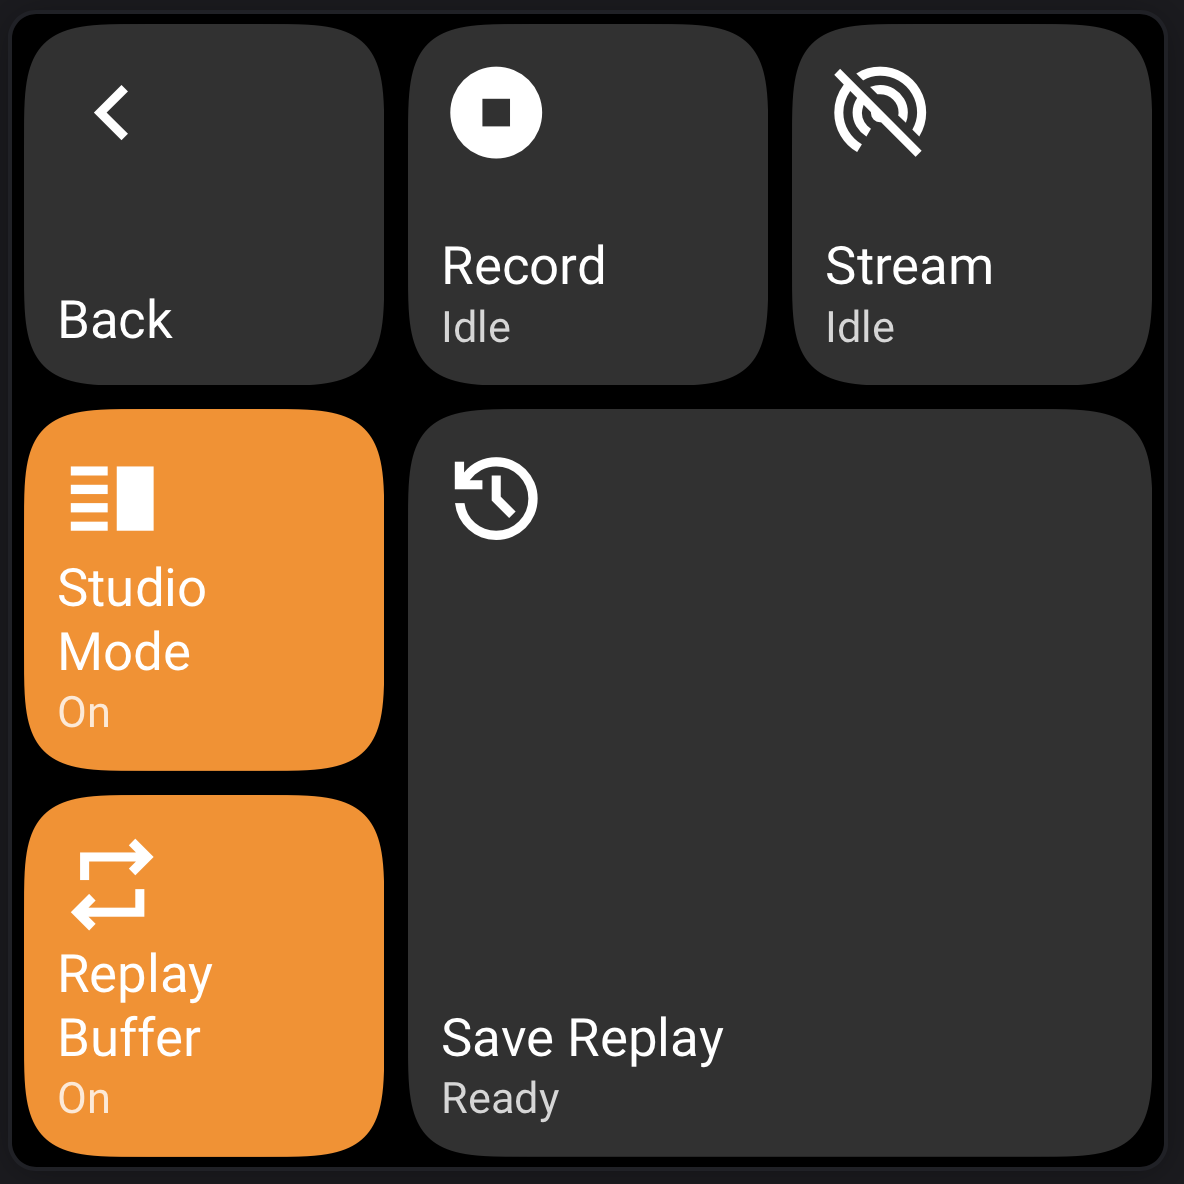
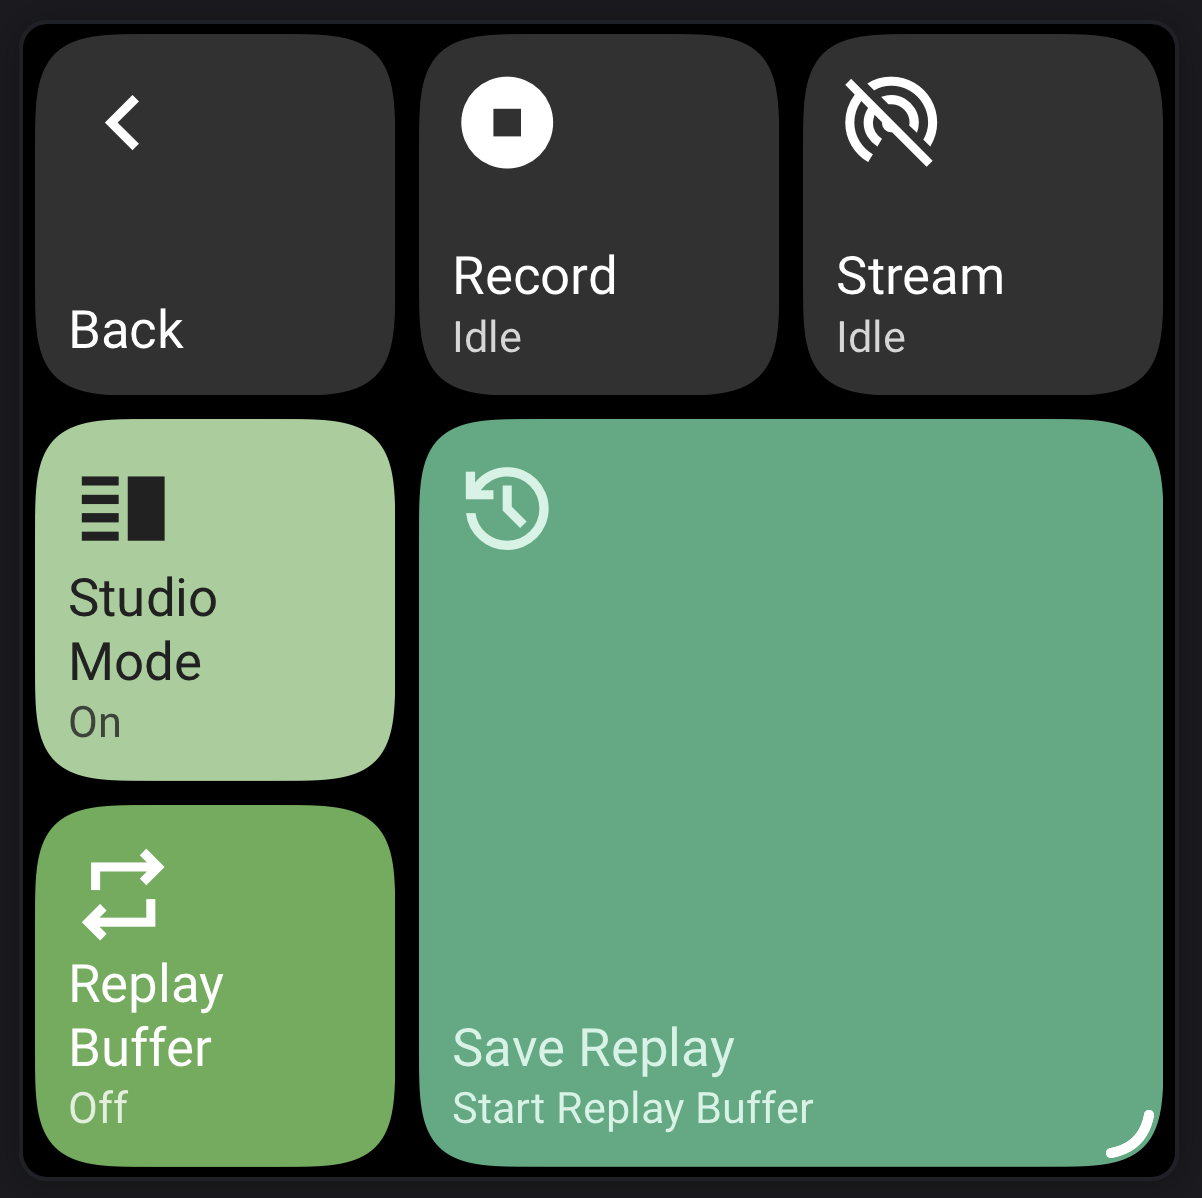
Update the OBS Studio Control layout screenshot

diff --git a/docs/mac-controls/obs-studio/studio-controls.md b/docs/mac-controls/obs-studio/studio-controls.md
@@ -15,7 +15,7 @@ Choose **Add Card → OBS Studio → Grouped pages → Studio Control** and save
 
 Use **Edit Subpage** to move, edit, or delete the preset cards. Add **Virtual Camera** or **Open Multiview** if you also use them during a session.
 
-<a href="/images/obs/studio-control-layout.png"><img src="/images/obs/studio-control-layout.png" alt="Studio Control layout with Record and Stream idle, Studio Mode and Replay Buffer on, and a large Save Replay card marked Ready" width="1184" height="1184" loading="lazy"></a>
+<a href="/images/obs/studio-control-layout.png"><img src="/images/obs/studio-control-layout.png" alt="Studio Control layout with Record and Stream idle, Studio Mode on, Replay Buffer off, and a large Save Replay card showing Start Replay Buffer" width="1202" height="1198" loading="lazy"></a>
 
 ## Studio Mode and Multiview
 
